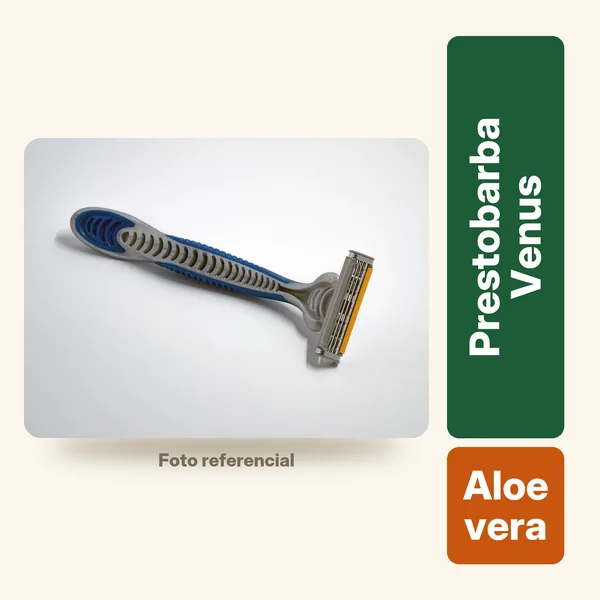
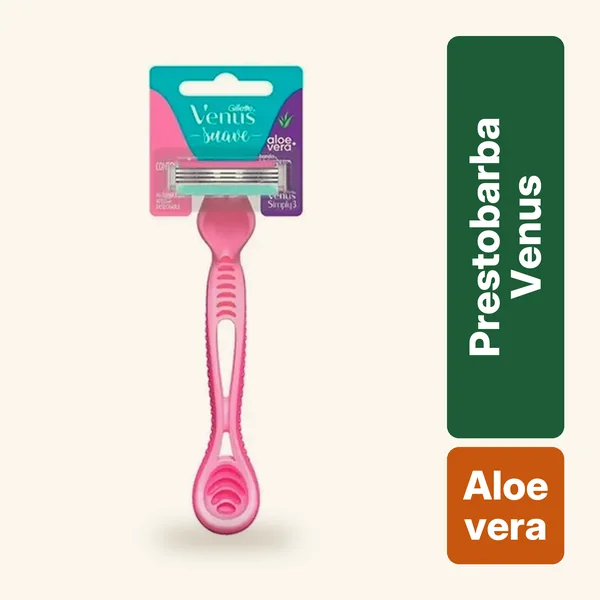
Prestobarba Venus: ASE009 con su código MyPyme LIM009 (carta y script) y foto de la Gillette Venus Suave de mujer

Changed region(s): [[0.03, 0.09, 0.72, 0.93], [0.69, 0.24, 0.72, 0.27], [0.66, 0.21, 0.69, 0.24]]

diff --git a/carta/index.html b/carta/index.html
@@ -2495,8 +2495,8 @@ const visibles=L.productos.filter(p=>!esPieza(p)&&!p.retirado); // retirado: ya 
    el pedido que llega a SabAPP y a la planilla (codMyPyme), la línea MYPYME del WhatsApp, los cerrados por stock y la búsqueda por código.
    "" = no tiene código en MyPyme; si un código no está en la lista, es el mismo (cecinas y congelados, por ejemplo).
    COD_ETIQ: código de la etiqueta del producto. Lo genera mapaCodigos13.py (ver CLAUDE.md). */
-const COD_MYPYME={"BLO011":"PAP005","ABA001":"GRA001","ABA002":"GRA002","ABA003":"GRA003","ABA004":"GRA004","ABA005":"GRA005","ABA006":"GRA006","ABA007":"GRA007","ABA008":"GRA008","ABA009":"GRA009","ABA010":"GRA010","ABA011":"GRA011","ABA012":"","ABA013":"DES001","ABA014":"DES002","ABA015":"DES003","ABA016":"DES004","ABA017":"DES005","ABA018":"GRA012","ABA019":"GRA013","ABA020":"GRA014","ABA021":"GRA015","ABA022":"GRA016","ABA023":"GRA017","ABA024":"GRA018","ABA025":"GRA019","ABA026":"GRA020","ABA027":"GRA021","ABA028":"GRA022","ABA029":"DES006","ABA030":"DES007","ABA031":"GRA023","ABA032":"GRA024","ABA033":"GRA025","ABA034":"GRA026","ABA035":"GRA027","ABA036":"GRA028","ABA037":"GRA029","ABA038":"GRA030","ABA039":"GRA031","ABA040":"GRA032","ABA041":"GRA033","ABA042":"GRA034","ABA043":"GRA035","ABA044":"GRA036","ABA045":"GRA037","ABA046":"GRA038","ABA047":"GRA039","ABA048":"DES008","ABA049":"GRA040","ABA050":"DES009","ABA051":"GRA041","ABA052":"GRA042","ABA053":"GRA043","ABA054":"GRA044","ABA055":"GRA045","ABA056":"GRA046","ABA057":"GRA047","ABA058":"GRA048","ABA059":"GRA049","ABA060":"GRA050","ABA061":"GRA051","ABA062":"GRA052","ABA063":"GRA053","ABA064":"GRA054","ABA065":"GRA055","ABA066":"GRA056","ABA067":"GRA057","ABA068":"GRA058","ABA069":"GRA059","ABA070":"GRA060","ABA071":"GRA061","ABA072":"GRA062","ABA073":"GRA063","ABA074":"GRA064","ABA075":"GRA065","ABA076":"GRA066","ABA077":"GRA067","ABA078":"GRA068","ABA079":"GRA069","ABA080":"GRA070","ABA081":"GRA071","ABA082":"GRA072","ABA083":"GRA073","ABA084":"GRA074","ABA085":"GRA075","ABA086":"GRA076","ABA087":"GRA077","ABA088":"DES010","ABA089":"DES011","ABA090":"DES012","ABA091":"DES013","ABA092":"DES014","ABA093":"DES015","ABA094":"DES016","ABA095":"DES017","ALI-AFRECHILLO":"ALI004","ALI-BICARBONATO":"ALI005","ALI-CONCHUELA":"ALI003","ALI-FINTOX":"ALI007","ALI-FOSFATO-PERUANO":"ALI008","ALI-HARINA-DE-CARNE":"ALI009","ALI-LISINA":"ALI010","ALI-METIONINA":"ALI012","ALI-NUCLEO-POLLITA":"ALI013","ALI-NUCLEO-PONEDORA-NUTRIAL":"","ALI-NUCLEO-PONEDORA-ROVIMIX":"ALI020","ALI-PEPTASAN":"ALI015","ALI-POLIFEED":"ALI016","ALI-SAL":"ALI017","ALI-SOYA":"ALI018","ALI003":"ALI006","ALI004":"ALI011","ANT-BLO013":"","ANT-BOL002":"","ANT-CAR007":"","ANT-CAR012":"","ANT-DES005":"","ANT-DES013":"","ANT-DES036":"","ANT-OTR011":"","ANT-PLA018":"","ANT-PLA027":"","ANT-POT004":"","ANT-POT007":"","ANT-POT017":"","ANT-TAP016":"","ANT-VAS007":"","ANT-VAS022":"","ASE001":"LIM001","ASE002":"LIM002","ASE003":"LIM003","ASE004":"LIM004","ASE005":"LIM005","ASE006":"LIM006","ASE007":"LIM007","ASE008":"LIM008","ASE009":"","ASE010":"LIM009","ASE011":"LIM010","ASE012":"LIM011","ASE013":"LIM012","ASE014":"LIM013","ASE015":"LIM014","ASE016":"LIM015","ASE017":"LIM016","ASE018":"LIM017","ASE019":"LIM018","BLO001":"PAP001","BLO002":"PAP002","BLO003":"PAP003","BLO004":"PAP004","BLO005":"PAP005","BLO006":"PAP006","BLO007":"PAP007","BLO009":"PAP008","BLO010":"PAP009","BOL001":"MER001","BOL002":"PLA001","BOL003":"PLA002","BOL004":"PLA003","BOL005":"PLA004","BOL006":"PLA005","BOL007":"PLA006","BOL008":"PLA007","BOL009":"PAP010","BOL010":"PAP011","BOL011":"PAP012","BOL012":"PLA008","BOL013":"MER002","BOL014":"PLA009","BOL015":"PLA010","BOL016":"PLA011","BOL017":"PLA012","BOL018":"PLA013","BOL019":"PAP013","BOL020":"PAP014","BOL021":"PAP015","BOL022":"PAP016","BOL023":"PAP017","BOL024":"PAP018","BOL025":"MER003","BOL026":"PLA014","BOL027":"PLA015","BOL028":"PLA016","BOL030":"MER004","BOL031":"PAP019","BOL032":"PLA017","BOL033":"PLA018","BOL034":"PAP020","BOL035":"","BOL036":"","BOL037":"","BOL038":"","BOL039":"","BOL040":"","BOL041":"","BOL042":"","BOL043":"PAP021","BOL044":"PAP022","BOL045":"PAP023","BOL046":"","BOL047":"PAP024","BOL048":"PAP025","BOL049":"","BOL050":"PAP026","BOL051":"PAP027","BOL052":"PAP028","BOL053":"PAP029","BOL054":"PAP030","BOL055":"PAP031","BOL056":"PAP032","BOL057":"PLA019","BOL058":"PLA020","BOL059":"PAP033","BOL060":"PAP034","BOL061":"PLA021","BOL062":"PLA022","BOL063":"PLA023","BOL064":"MER010","BOL065":"MER011","BOL066":"MER012","BOL067":"MER013","BOL068":"MER014","BOL069":"MER015","BOL070":"PLA154","BOL071":"PLA155","BOL072":"PLA156","BOL073":"PLA157","BOL074":"PLA158","BOL075":"MER016","BOL076":"MER017","BOL077":"MER018","CAR022":"","CAR023":"CAR021","CAR024":"CAR022","CAR025":"INS005","CAR026":"CAR023","CAR027":"CAR024","CAR028":"CAR025","CAR029":"CAR026","CAR030":"CAR027","CAR032":"CAR028","CAR033":"CAR029","CAR034":"CAR030","CAR035":"CAR031","CAR036":"CAR032","CAR037":"CAR033","CAR038":"CAR034","CAR039":"CAR035","CAR040":"PLA024","CAR041":"CAR036","CAR042":"CAR037","CAR043":"CAR038","CAR044":"CAR039","CAR045":"CAR040","CAR046":"CAR041","CAR047":"CAR042","CAR048":"CAR043","CAR049":"CAR044","CAR051":"CAR045","CAR052":"CAR046","CAR053":"CAR047","CAR054":"CAR048","CAR055":"CAR049","DES001":"PAP035","DES002":"PAP036","DES003":"PAP037","DES004":"PAP038","DES005":"MAD001","DES006":"MAD002","DES007":"MAD003","DES008":"MAD004","DES009":"MAD005","DES010":"LIM019","DES011":"LIM020","DES012":"PLA025","DES014":"MAD006","DES015":"PLA026","DES016":"PLA027","DES017":"PLA028","DES018":"MAD007","DES019":"PLA029","DES020":"PLA030","DES021":"PLA031","DES022":"MAD008","DES023":"PLA032","DES024":"PLA033","DES025":"LIM021","DES026":"LIM022","DES027":"LIM023","DES028":"LIM024","DES029":"LIM025","DES030":"MAD009","DES031":"PLA034","DES032":"MAD010","DES033":"CAR050","DES034":"CAR051","DES036":"CAR052","DES037":"PLA035","DES038":"PLA036","DES039":"PLA037","DES040":"PLA038","DES041":"PLA039","DES042":"MAD011","DES043":"LIM026","DES044":"PLA040","DES045":"MAD012","DES046":"MAD013","DES047":"MAD014","DES048":"PLA041","DES049":"PLA042","DES050":"PLA043","DES051":"MAD015","DES052":"MAD016","DES053":"PLA044","DES054":"LIM027","DES055":"PLA045","HUE001":"INS002","HUE002":"INS004","HUE003":"INS003","HUE004":"HUE001","HUE005":"HUE003","HUE006":"HUE004","HUE007":"HUE006","HUE008":"","HUE009":"HUE007","HUE010":"HUE008","HUE012":"HUE009","HUE013":"HUE010","HUE014":"HUE012","HUE015":"HUE013","HUE016":"HUE014","HUE017":"HUE015","HUE018":"HUE016","HUE019":"HUE017","HUE020":"HUE018","HUE021":"HUE019","HUE024":"","HUE025":"INS001","HUE027":"HUE005","HUE028":"HUE002","HUE029":"HUE020","HUE030":"HUE021","OTR001":"DUL001","OTR003":"MER005","OTR004":"","OTR005":"MER006","OTR006":"LIM028","OTR007":"PLA159","OTR008":"LIM029","OTR009":"LIM030","OTR010":"MER008","OTR011":"MER009","OTR012":"LAC009","OTR013":"LIM031","OTR014":"EQU001","OTR015":"EQU002","OTR016":"EQU003","PLA001":"PLA046","PLA002":"PLA047","PLA003":"PLA048","PLA004":"PLA049","PLA005":"PLA050","PLA006":"PLA051","PLA007":"PLA052","PLA008":"PLA053","PLA009":"PLA054","PLA010":"PLA055","PLA011":"PLA056","PLA012":"CAR063","PLA014":"CAR064","PLA015":"CAR065","PLA016":"CAR066","PLA017":"PLA057","PLA018":"PLA058","PLA019":"PLA059","PLA020":"PLA060","PLA021":"PLA061","PLA022":"PLA062","PLA023":"PLA063","PLA024":"PLA064","PLA025":"PLA065","PLA026":"PLA066","PLA027":"PLA067","PLA028":"PLA068","PLA029":"PLA069","PLA030":"PLA070","PLA031":"PLA071","PLA032":"PLA072","PLA033":"PLA073","PLA034":"PLA074","PLA035":"PLA075","PLA037":"PLA076","PLA038":"PLA077","PLA039":"PLA078","PLA040":"PLA079","PLA041":"PLA080","PLA042":"PLA081","PLA043":"PLA082","PLA044":"PLA083","POT001":"PLA084","POT002":"PLA085","POT003":"CAR067","POT004":"CAR068","POT005":"PLA086","POT006":"PLA087","POT007":"PLA088","POT008":"PLA089","POT009":"PLA090","POT010":"","POT011":"CAR053","POT012":"CAR054","POT013":"PLA091","POT014":"PLA092","POT015":"PLA093","POT016":"PLA094","POT017":"PLA095","POT018":"PLA096","POT019":"PLA097","POT020":"PLA098","POT021":"PLA099","POT022":"PLA100","TAP001":"CAR055","TAP002":"PLA101","TAP003":"PLA102","TAP004":"","TAP005":"ALU024","TAP006":"ALU025","TAP007":"ALU026","TAP008":"CAR056","TAP009":"PLA103","TAP010":"PLA104","TAP011":"PLA105","TAP012":"PLA106","TAP013":"PLA107","TAP014":"PLA108","TAP015":"PLA109","TAP016":"PLA110","TAP017":"PLA111","TAP018":"PLA112","TAP019":"PLA113","TAP020":"INS006","TAP021":"PLA114","TAP022":"PLA115","TAP023":"PLA116","TAP024":"PLA117","TAP025":"ALU027","TAP026":"PLA118","TAP027":"PLA119","TAP028":"PLA120","TAP029":"PLA121","TAP030":"PLA122","TAP031":"PLA123","TAP032":"PLA124","TAP033":"PLA125","TAP034":"PLA126","TAP035":"PLA127","TAP036":"PLA128","TAP037":"PLA129","TAP038":"PLA130","TAP040":"PLA132","TAP041":"PLA133","TAP042":"PLA134","TAP043":"PLA135","VAS001":"PLA138","VAS002":"PLA139","VAS003":"PLA140","VAS004":"PLA141","VAS005":"PLA142","VAS006":"PLA143","VAS007":"MAD018","VAS008":"CAR057","VAS009":"CAR058","VAS010":"PLA144","VAS011":"CAR059","VAS012":"PLA145","VAS013":"PLA146","VAS014":"PLA147","VAS015":"PLA148","VAS016":"PLA149","VAS019":"PLA150","VAS020":"PLA151","VAS021":"PLA152","VAS022":"CAR060","VAS023":"CAR061","VAS024":"CAR062","VAS025":"","VAS026":"PLA153"};
-const COD_ETIQ={"ABA013":"VINA005","ABA014":"NUEVO12","ABA015":"ECOV001","ABA016":"VINA003","ABA017":"VINA004","ABA018":"AJIN001","ABA019":"AJOE001","ABA020":"AJOP001","ABA021":"ALBA001","ABA023":"ALME001","ABA025":"AMAR001","ABA026":"ANIS001","ABA028":"AVEN001","ABA029":"AZUC003","ABA030":"AZUC002","ABA032":"CACA002","ABA033":"CANE002","ABA034":"CARD001","ABA035":"CARN001","ABA036":"CEBO001","ABA037":"CHIA001","ABA039":"CHUC001","ABA040":"CHUN001","ABA042":"CLAV002","ABA043":"CLAV001","ABA044":"COCO001","ABA047":"ESTR001","ABA050":"GELA001","ABA051":"GRAM001","ABA053":"HARI004","ABA054":"HARI003","ABA058":"LINA001","ABA059":"MAIZ001","ABA060":"MAIZ002","ABA062":"MAQU002","ABA063":"MAQU001","ABA064":"MERK001","ABA066":"FRUT001","ABA067":"MOST003","ABA069":"MOST002","ABA071":"NUEC001","ABA072":"NUEZ001","ABA075":"PIMI005","ABA076":"PIMI006","ABA077":"PIMI004","ABA078":"QUIN002","ABA079":"QUIN001","ABA083":"SEMI002","ABA084":"SEMI001","ABA085":"SESA003","ABA086":"SESA002","ABA087":"SESA001","ABA089":"TENE004","ABA092":"TEVE002","ABA093":"TEVE001","ALI001":"ALIM001","ALI002":"ALIM002","ALI003":"ALIM006","ALI004":"ALIM011","ALU001":"ENVA022","ALU002":"ENVA021","ALU004":"ENVA020","ALU005":"ENVA019","ALU006":"ENVA018","ALU008":"ENVA017","ALU009":"NUEVO14","ALU010":"ENVA016","ALU012":"ENVA013","ALU013":"NUEVO13","ALU014":"ENVA010","ALU015":"ENVA007","ALU016":"ENVA012","ALU017":"ENVA011","ALU018":"ENVA009","ALU019":"ENVA008","ALU020":"ENVA014","ALU023":"ALUM001","ASE008":"NUEVO01","ASE010":"PRES001","ASE012":"TRAP002","ASE014":"TRAP001","ASE017":"LIM001","ASE018":"LIM002","ASE019":"LIM003","BLO004":"BLON005","BLO009":"NUEVO54","BOL022":"NUEVO60","BOL023":"NUEVO58","BOL025":"ETIQ001","BOL027":"FILM003","BOL030":"NUEVO45","BOL034":"PAPE003","BOL043":"PAPE002","BOL044":"PAPE006","BOL047":"SACO012","BOL048":"SACO013","BOL050":"SACO008","BOL051":"SACO007","BOL052":"SACO006","BOL053":"SACO005","BOL054":"SACO004","BOL055":"SACO003","BOL056":"SACO002","CAR001":"NUEVO36","CAR002":"BAND018","CAR003":"BAND017","CAR004":"BAND016","CAR005":"NUEVO51","CAR007":"NUEVO50","CAR008":"NUEVO49","CAR017":"BAND007","CAR020":"ENVA001","CAR023":"CAJA032","CAR024":"CAJA033","CAR025":"HUEV020","CAR026":"CAJA028","CAR027":"CAJA026","CAR032":"CAJA013","CAR033":"CAJA006","CAR034":"CAJA012","CAR036":"CAJA003","CAR037":"CAJA001","CAR038":"COMP003","CAR040":"COMP001","CAR041":"CONO001","CAR042":"NUEVO63","CAR043":"SAND001","CAR044":"NUEVO48","CON001":"ATUN001","CON002":"ATUN004","CON003":"CHOR001","CON004":"DURA004","CON005":"DURA001","CON006":"PINA003","CON007":"PINA002","CON008":"SURT001","DES005":"PALO001","DES011":"COFI001","DES018":"CUCH003","DES023":"CUCH001","DES025":"GUAN001","DES030":"MOND001","DES034":"PLAT006","DES036":"PLAT001","DES037":"PLAT004","DES038":"PLAT003","DES039":"PLAT002","DES040":"NUEVO26","DES041":"NUEVO27","DES042":"REVO001","DES043":"SERV001","DES044":"SET3001","DES045":"SETC001","DES050":"TENE003","HUE001":"HUEV017","HUE003":"HUEV018","HUE025":"HUEV016","OTR001":"78023994","OTR003":"HILO003","OTR006":"LIMP001","OTR007":"MARM001","OTR008":"PAST002","OTR009":"PAST001","OTR012":"7802080001204","OTR013":"TOAL002","PLA001":"NUEVO17","PLA002":"CP79001","PLA005":"CLAM002","PLA006":"CLAM001","PLA008":"P1CO001","PLA009":"P1CO002","PLA010":"CT12001","PLA014":"CT5B001","PLA017":"CT20001","PLA018":"CTMA001","PLA019":"CUPU013","PLA020":"CUPU012","PLA022":"CUPU009","PLA024":"CUPU004","PLA025":"CUPU003","PLA026":"CUPU005","PLA027":"CUPU002","PLA029":"CUPU001","PLA030":"CUPU008","PLA031":"CUPU007","PLA032":"CUPU006","PLA033":"ENVA005","PLA034":"NUEVO20","PLA035":"ENVA006","PLA039":"ENVA004","PLA042":"ENVA003","PLA043":"ENVA002","POT001":"POTE011","POT003":"POTE005","POT004":"POTE004","POT005":"POTE008","POT006":"POTE007","POT007":"POTE006","POT008":"POTE003","POT009":"POTE002","POT011":"NUEVO21","POT012":"NUEVO22","POT013":"POTE001","POT014":"POTE010","POT016":"SALS007","POT017":"SALS005","POT018":"SALS006","POT020":"SALS003","TAP001":"TAPA029","TAP002":"TAPA028","TAP003":"TAPA027","TAP005":"NUEVO16","TAP006":"NUEVO15","TAP007":"TAPA026","TAP008":"NUEVO47","TAP009":"NUEVO40","TAP010":"NUEVO41","TAP011":"NUEVO42","TAP012":"NUEVO43","TAP013":"NUEVO37","TAP014":"TAPA025","TAP015":"NUEVO18","TAP016":"TAPA024","TAP017":"TAPA023","TAP018":"TAPA022","TAP019":"TAPA030","TAP020":"HUEV021","TAP021":"TAPA004","TAP023":"TAPA002","TAP024":"TAPA003","TAP025":"TAPA020","TAP026":"TAPA010","TAP027":"TAPA008","TAP028":"TAPA005","TAP029":"TAPA006","TAP030":"TAPA007","TAP031":"TAPA019","TAP032":"TAPA018","TAP033":"TAPA015","TAP034":"TAPA016","TAP035":"TAPA017","TAP036":"TAPA011","TAP037":"TAPA014","TAP040":"TAPA013","TAP042":"TAPA012","TAP043":"TAPA001","VAS001":"COPA001","VAS003":"VASO002","VAS004":"VASO017","VAS005":"NUEVO34","VAS006":"VASO001","VAS007":"VASO018","VAS010":"VASO016","VAS011":"VASO015","VAS012":"VASO012","VAS013":"VASO014","VAS014":"VASO013","VAS015":"VASO011","VAS016":"VASO010","VAS019":"NUEVO38","VAS020":"VASO007","VAS021":"VASO008","VAS022":"VASO006","VAS023":"VASO005","VAS024":"VASO004"};
+const COD_MYPYME={"BLO011":"PAP005","ABA001":"GRA001","ABA002":"GRA002","ABA003":"GRA003","ABA004":"GRA004","ABA005":"GRA005","ABA006":"GRA006","ABA007":"GRA007","ABA008":"GRA008","ABA009":"GRA009","ABA010":"GRA010","ABA011":"GRA011","ABA012":"","ABA013":"DES001","ABA014":"DES002","ABA015":"DES003","ABA016":"DES004","ABA017":"DES005","ABA018":"GRA012","ABA019":"GRA013","ABA020":"GRA014","ABA021":"GRA015","ABA022":"GRA016","ABA023":"GRA017","ABA024":"GRA018","ABA025":"GRA019","ABA026":"GRA020","ABA027":"GRA021","ABA028":"GRA022","ABA029":"DES006","ABA030":"DES007","ABA031":"GRA023","ABA032":"GRA024","ABA033":"GRA025","ABA034":"GRA026","ABA035":"GRA027","ABA036":"GRA028","ABA037":"GRA029","ABA038":"GRA030","ABA039":"GRA031","ABA040":"GRA032","ABA041":"GRA033","ABA042":"GRA034","ABA043":"GRA035","ABA044":"GRA036","ABA045":"GRA037","ABA046":"GRA038","ABA047":"GRA039","ABA048":"DES008","ABA049":"GRA040","ABA050":"DES009","ABA051":"GRA041","ABA052":"GRA042","ABA053":"GRA043","ABA054":"GRA044","ABA055":"GRA045","ABA056":"GRA046","ABA057":"GRA047","ABA058":"GRA048","ABA059":"GRA049","ABA060":"GRA050","ABA061":"GRA051","ABA062":"GRA052","ABA063":"GRA053","ABA064":"GRA054","ABA065":"GRA055","ABA066":"GRA056","ABA067":"GRA057","ABA068":"GRA058","ABA069":"GRA059","ABA070":"GRA060","ABA071":"GRA061","ABA072":"GRA062","ABA073":"GRA063","ABA074":"GRA064","ABA075":"GRA065","ABA076":"GRA066","ABA077":"GRA067","ABA078":"GRA068","ABA079":"GRA069","ABA080":"GRA070","ABA081":"GRA071","ABA082":"GRA072","ABA083":"GRA073","ABA084":"GRA074","ABA085":"GRA075","ABA086":"GRA076","ABA087":"GRA077","ABA088":"DES010","ABA089":"DES011","ABA090":"DES012","ABA091":"DES013","ABA092":"DES014","ABA093":"DES015","ABA094":"DES016","ABA095":"DES017","ALI-AFRECHILLO":"ALI004","ALI-BICARBONATO":"ALI005","ALI-CONCHUELA":"ALI003","ALI-FINTOX":"ALI007","ALI-FOSFATO-PERUANO":"ALI008","ALI-HARINA-DE-CARNE":"ALI009","ALI-LISINA":"ALI010","ALI-METIONINA":"ALI012","ALI-NUCLEO-POLLITA":"ALI013","ALI-NUCLEO-PONEDORA-NUTRIAL":"","ALI-NUCLEO-PONEDORA-ROVIMIX":"ALI020","ALI-PEPTASAN":"ALI015","ALI-POLIFEED":"ALI016","ALI-SAL":"ALI017","ALI-SOYA":"ALI018","ALI003":"ALI006","ALI004":"ALI011","ANT-BLO013":"","ANT-BOL002":"","ANT-CAR007":"","ANT-CAR012":"","ANT-DES005":"","ANT-DES013":"","ANT-DES036":"","ANT-OTR011":"","ANT-PLA018":"","ANT-PLA027":"","ANT-POT004":"","ANT-POT007":"","ANT-POT017":"","ANT-TAP016":"","ANT-VAS007":"","ANT-VAS022":"","ASE001":"LIM001","ASE002":"LIM002","ASE003":"LIM003","ASE004":"LIM004","ASE005":"LIM005","ASE006":"LIM006","ASE007":"LIM007","ASE008":"LIM008","ASE009":"LIM009","ASE010":"LIM009","ASE011":"LIM010","ASE012":"LIM011","ASE013":"LIM012","ASE014":"LIM013","ASE015":"LIM014","ASE016":"LIM015","ASE017":"LIM016","ASE018":"LIM017","ASE019":"LIM018","BLO001":"PAP001","BLO002":"PAP002","BLO003":"PAP003","BLO004":"PAP004","BLO005":"PAP005","BLO006":"PAP006","BLO007":"PAP007","BLO009":"PAP008","BLO010":"PAP009","BOL001":"MER001","BOL002":"PLA001","BOL003":"PLA002","BOL004":"PLA003","BOL005":"PLA004","BOL006":"PLA005","BOL007":"PLA006","BOL008":"PLA007","BOL009":"PAP010","BOL010":"PAP011","BOL011":"PAP012","BOL012":"PLA008","BOL013":"MER002","BOL014":"PLA009","BOL015":"PLA010","BOL016":"PLA011","BOL017":"PLA012","BOL018":"PLA013","BOL019":"PAP013","BOL020":"PAP014","BOL021":"PAP015","BOL022":"PAP016","BOL023":"PAP017","BOL024":"PAP018","BOL025":"MER003","BOL026":"PLA014","BOL027":"PLA015","BOL028":"PLA016","BOL030":"MER004","BOL031":"PAP019","BOL032":"PLA017","BOL033":"PLA018","BOL034":"PAP020","BOL035":"","BOL036":"","BOL037":"","BOL038":"","BOL039":"","BOL040":"","BOL041":"","BOL042":"","BOL043":"PAP021","BOL044":"PAP022","BOL045":"PAP023","BOL046":"","BOL047":"PAP024","BOL048":"PAP025","BOL049":"","BOL050":"PAP026","BOL051":"PAP027","BOL052":"PAP028","BOL053":"PAP029","BOL054":"PAP030","BOL055":"PAP031","BOL056":"PAP032","BOL057":"PLA019","BOL058":"PLA020","BOL059":"PAP033","BOL060":"PAP034","BOL061":"PLA021","BOL062":"PLA022","BOL063":"PLA023","BOL064":"MER010","BOL065":"MER011","BOL066":"MER012","BOL067":"MER013","BOL068":"MER014","BOL069":"MER015","BOL070":"PLA154","BOL071":"PLA155","BOL072":"PLA156","BOL073":"PLA157","BOL074":"PLA158","BOL075":"MER016","BOL076":"MER017","BOL077":"MER018","CAR022":"","CAR023":"CAR021","CAR024":"CAR022","CAR025":"INS005","CAR026":"CAR023","CAR027":"CAR024","CAR028":"CAR025","CAR029":"CAR026","CAR030":"CAR027","CAR032":"CAR028","CAR033":"CAR029","CAR034":"CAR030","CAR035":"CAR031","CAR036":"CAR032","CAR037":"CAR033","CAR038":"CAR034","CAR039":"CAR035","CAR040":"PLA024","CAR041":"CAR036","CAR042":"CAR037","CAR043":"CAR038","CAR044":"CAR039","CAR045":"CAR040","CAR046":"CAR041","CAR047":"CAR042","CAR048":"CAR043","CAR049":"CAR044","CAR051":"CAR045","CAR052":"CAR046","CAR053":"CAR047","CAR054":"CAR048","CAR055":"CAR049","DES001":"PAP035","DES002":"PAP036","DES003":"PAP037","DES004":"PAP038","DES005":"MAD001","DES006":"MAD002","DES007":"MAD003","DES008":"MAD004","DES009":"MAD005","DES010":"LIM019","DES011":"LIM020","DES012":"PLA025","DES014":"MAD006","DES015":"PLA026","DES016":"PLA027","DES017":"PLA028","DES018":"MAD007","DES019":"PLA029","DES020":"PLA030","DES021":"PLA031","DES022":"MAD008","DES023":"PLA032","DES024":"PLA033","DES025":"LIM021","DES026":"LIM022","DES027":"LIM023","DES028":"LIM024","DES029":"LIM025","DES030":"MAD009","DES031":"PLA034","DES032":"MAD010","DES033":"CAR050","DES034":"CAR051","DES036":"CAR052","DES037":"PLA035","DES038":"PLA036","DES039":"PLA037","DES040":"PLA038","DES041":"PLA039","DES042":"MAD011","DES043":"LIM026","DES044":"PLA040","DES045":"MAD012","DES046":"MAD013","DES047":"MAD014","DES048":"PLA041","DES049":"PLA042","DES050":"PLA043","DES051":"MAD015","DES052":"MAD016","DES053":"PLA044","DES054":"LIM027","DES055":"PLA045","HUE001":"INS002","HUE002":"INS004","HUE003":"INS003","HUE004":"HUE001","HUE005":"HUE003","HUE006":"HUE004","HUE007":"HUE006","HUE008":"","HUE009":"HUE007","HUE010":"HUE008","HUE012":"HUE009","HUE013":"HUE010","HUE014":"HUE012","HUE015":"HUE013","HUE016":"HUE014","HUE017":"HUE015","HUE018":"HUE016","HUE019":"HUE017","HUE020":"HUE018","HUE021":"HUE019","HUE024":"","HUE025":"INS001","HUE027":"HUE005","HUE028":"HUE002","HUE029":"HUE020","HUE030":"HUE021","OTR001":"DUL001","OTR003":"MER005","OTR004":"","OTR005":"MER006","OTR006":"LIM028","OTR007":"PLA159","OTR008":"LIM029","OTR009":"LIM030","OTR010":"MER008","OTR011":"MER009","OTR012":"LAC009","OTR013":"LIM031","OTR014":"EQU001","OTR015":"EQU002","OTR016":"EQU003","PLA001":"PLA046","PLA002":"PLA047","PLA003":"PLA048","PLA004":"PLA049","PLA005":"PLA050","PLA006":"PLA051","PLA007":"PLA052","PLA008":"PLA053","PLA009":"PLA054","PLA010":"PLA055","PLA011":"PLA056","PLA012":"CAR063","PLA014":"CAR064","PLA015":"CAR065","PLA016":"CAR066","PLA017":"PLA057","PLA018":"PLA058","PLA019":"PLA059","PLA020":"PLA060","PLA021":"PLA061","PLA022":"PLA062","PLA023":"PLA063","PLA024":"PLA064","PLA025":"PLA065","PLA026":"PLA066","PLA027":"PLA067","PLA028":"PLA068","PLA029":"PLA069","PLA030":"PLA070","PLA031":"PLA071","PLA032":"PLA072","PLA033":"PLA073","PLA034":"PLA074","PLA035":"PLA075","PLA037":"PLA076","PLA038":"PLA077","PLA039":"PLA078","PLA040":"PLA079","PLA041":"PLA080","PLA042":"PLA081","PLA043":"PLA082","PLA044":"PLA083","POT001":"PLA084","POT002":"PLA085","POT003":"CAR067","POT004":"CAR068","POT005":"PLA086","POT006":"PLA087","POT007":"PLA088","POT008":"PLA089","POT009":"PLA090","POT010":"","POT011":"CAR053","POT012":"CAR054","POT013":"PLA091","POT014":"PLA092","POT015":"PLA093","POT016":"PLA094","POT017":"PLA095","POT018":"PLA096","POT019":"PLA097","POT020":"PLA098","POT021":"PLA099","POT022":"PLA100","TAP001":"CAR055","TAP002":"PLA101","TAP003":"PLA102","TAP004":"","TAP005":"ALU024","TAP006":"ALU025","TAP007":"ALU026","TAP008":"CAR056","TAP009":"PLA103","TAP010":"PLA104","TAP011":"PLA105","TAP012":"PLA106","TAP013":"PLA107","TAP014":"PLA108","TAP015":"PLA109","TAP016":"PLA110","TAP017":"PLA111","TAP018":"PLA112","TAP019":"PLA113","TAP020":"INS006","TAP021":"PLA114","TAP022":"PLA115","TAP023":"PLA116","TAP024":"PLA117","TAP025":"ALU027","TAP026":"PLA118","TAP027":"PLA119","TAP028":"PLA120","TAP029":"PLA121","TAP030":"PLA122","TAP031":"PLA123","TAP032":"PLA124","TAP033":"PLA125","TAP034":"PLA126","TAP035":"PLA127","TAP036":"PLA128","TAP037":"PLA129","TAP038":"PLA130","TAP040":"PLA132","TAP041":"PLA133","TAP042":"PLA134","TAP043":"PLA135","VAS001":"PLA138","VAS002":"PLA139","VAS003":"PLA140","VAS004":"PLA141","VAS005":"PLA142","VAS006":"PLA143","VAS007":"MAD018","VAS008":"CAR057","VAS009":"CAR058","VAS010":"PLA144","VAS011":"CAR059","VAS012":"PLA145","VAS013":"PLA146","VAS014":"PLA147","VAS015":"PLA148","VAS016":"PLA149","VAS019":"PLA150","VAS020":"PLA151","VAS021":"PLA152","VAS022":"CAR060","VAS023":"CAR061","VAS024":"CAR062","VAS025":"","VAS026":"PLA153"};
+const COD_ETIQ={"ABA013":"VINA005","ABA014":"NUEVO12","ABA015":"ECOV001","ABA016":"VINA003","ABA017":"VINA004","ABA018":"AJIN001","ABA019":"AJOE001","ABA020":"AJOP001","ABA021":"ALBA001","ABA023":"ALME001","ABA025":"AMAR001","ABA026":"ANIS001","ABA028":"AVEN001","ABA029":"AZUC003","ABA030":"AZUC002","ABA032":"CACA002","ABA033":"CANE002","ABA034":"CARD001","ABA035":"CARN001","ABA036":"CEBO001","ABA037":"CHIA001","ABA039":"CHUC001","ABA040":"CHUN001","ABA042":"CLAV002","ABA043":"CLAV001","ABA044":"COCO001","ABA047":"ESTR001","ABA050":"GELA001","ABA051":"GRAM001","ABA053":"HARI004","ABA054":"HARI003","ABA058":"LINA001","ABA059":"MAIZ001","ABA060":"MAIZ002","ABA062":"MAQU002","ABA063":"MAQU001","ABA064":"MERK001","ABA066":"FRUT001","ABA067":"MOST003","ABA069":"MOST002","ABA071":"NUEC001","ABA072":"NUEZ001","ABA075":"PIMI005","ABA076":"PIMI006","ABA077":"PIMI004","ABA078":"QUIN002","ABA079":"QUIN001","ABA083":"SEMI002","ABA084":"SEMI001","ABA085":"SESA003","ABA086":"SESA002","ABA087":"SESA001","ABA089":"TENE004","ABA092":"TEVE002","ABA093":"TEVE001","ALI001":"ALIM001","ALI002":"ALIM002","ALI003":"ALIM006","ALI004":"ALIM011","ALU001":"ENVA022","ALU002":"ENVA021","ALU004":"ENVA020","ALU005":"ENVA019","ALU006":"ENVA018","ALU008":"ENVA017","ALU009":"NUEVO14","ALU010":"ENVA016","ALU012":"ENVA013","ALU013":"NUEVO13","ALU014":"ENVA010","ALU015":"ENVA007","ALU016":"ENVA012","ALU017":"ENVA011","ALU018":"ENVA009","ALU019":"ENVA008","ALU020":"ENVA014","ALU023":"ALUM001","ASE008":"NUEVO01","ASE009":"PRES001","ASE010":"PRES001","ASE012":"TRAP002","ASE014":"TRAP001","ASE017":"LIM001","ASE018":"LIM002","ASE019":"LIM003","BLO004":"BLON005","BLO009":"NUEVO54","BOL022":"NUEVO60","BOL023":"NUEVO58","BOL025":"ETIQ001","BOL027":"FILM003","BOL030":"NUEVO45","BOL034":"PAPE003","BOL043":"PAPE002","BOL044":"PAPE006","BOL047":"SACO012","BOL048":"SACO013","BOL050":"SACO008","BOL051":"SACO007","BOL052":"SACO006","BOL053":"SACO005","BOL054":"SACO004","BOL055":"SACO003","BOL056":"SACO002","CAR001":"NUEVO36","CAR002":"BAND018","CAR003":"BAND017","CAR004":"BAND016","CAR005":"NUEVO51","CAR007":"NUEVO50","CAR008":"NUEVO49","CAR017":"BAND007","CAR020":"ENVA001","CAR023":"CAJA032","CAR024":"CAJA033","CAR025":"HUEV020","CAR026":"CAJA028","CAR027":"CAJA026","CAR032":"CAJA013","CAR033":"CAJA006","CAR034":"CAJA012","CAR036":"CAJA003","CAR037":"CAJA001","CAR038":"COMP003","CAR040":"COMP001","CAR041":"CONO001","CAR042":"NUEVO63","CAR043":"SAND001","CAR044":"NUEVO48","CON001":"ATUN001","CON002":"ATUN004","CON003":"CHOR001","CON004":"DURA004","CON005":"DURA001","CON006":"PINA003","CON007":"PINA002","CON008":"SURT001","DES005":"PALO001","DES011":"COFI001","DES018":"CUCH003","DES023":"CUCH001","DES025":"GUAN001","DES030":"MOND001","DES034":"PLAT006","DES036":"PLAT001","DES037":"PLAT004","DES038":"PLAT003","DES039":"PLAT002","DES040":"NUEVO26","DES041":"NUEVO27","DES042":"REVO001","DES043":"SERV001","DES044":"SET3001","DES045":"SETC001","DES050":"TENE003","HUE001":"HUEV017","HUE003":"HUEV018","HUE025":"HUEV016","OTR001":"78023994","OTR003":"HILO003","OTR006":"LIMP001","OTR007":"MARM001","OTR008":"PAST002","OTR009":"PAST001","OTR012":"7802080001204","OTR013":"TOAL002","PLA001":"NUEVO17","PLA002":"CP79001","PLA005":"CLAM002","PLA006":"CLAM001","PLA008":"P1CO001","PLA009":"P1CO002","PLA010":"CT12001","PLA014":"CT5B001","PLA017":"CT20001","PLA018":"CTMA001","PLA019":"CUPU013","PLA020":"CUPU012","PLA022":"CUPU009","PLA024":"CUPU004","PLA025":"CUPU003","PLA026":"CUPU005","PLA027":"CUPU002","PLA029":"CUPU001","PLA030":"CUPU008","PLA031":"CUPU007","PLA032":"CUPU006","PLA033":"ENVA005","PLA034":"NUEVO20","PLA035":"ENVA006","PLA039":"ENVA004","PLA042":"ENVA003","PLA043":"ENVA002","POT001":"POTE011","POT003":"POTE005","POT004":"POTE004","POT005":"POTE008","POT006":"POTE007","POT007":"POTE006","POT008":"POTE003","POT009":"POTE002","POT011":"NUEVO21","POT012":"NUEVO22","POT013":"POTE001","POT014":"POTE010","POT016":"SALS007","POT017":"SALS005","POT018":"SALS006","POT020":"SALS003","TAP001":"TAPA029","TAP002":"TAPA028","TAP003":"TAPA027","TAP005":"NUEVO16","TAP006":"NUEVO15","TAP007":"TAPA026","TAP008":"NUEVO47","TAP009":"NUEVO40","TAP010":"NUEVO41","TAP011":"NUEVO42","TAP012":"NUEVO43","TAP013":"NUEVO37","TAP014":"TAPA025","TAP015":"NUEVO18","TAP016":"TAPA024","TAP017":"TAPA023","TAP018":"TAPA022","TAP019":"TAPA030","TAP020":"HUEV021","TAP021":"TAPA004","TAP023":"TAPA002","TAP024":"TAPA003","TAP025":"TAPA020","TAP026":"TAPA010","TAP027":"TAPA008","TAP028":"TAPA005","TAP029":"TAPA006","TAP030":"TAPA007","TAP031":"TAPA019","TAP032":"TAPA018","TAP033":"TAPA015","TAP034":"TAPA016","TAP035":"TAPA017","TAP036":"TAPA011","TAP037":"TAPA014","TAP040":"TAPA013","TAP042":"TAPA012","TAP043":"TAPA001","VAS001":"COPA001","VAS003":"VASO002","VAS004":"VASO017","VAS005":"NUEVO34","VAS006":"VASO001","VAS007":"VASO018","VAS010":"VASO016","VAS011":"VASO015","VAS012":"VASO012","VAS013":"VASO014","VAS014":"VASO013","VAS015":"VASO011","VAS016":"VASO010","VAS019":"NUEVO38","VAS020":"VASO007","VAS021":"VASO008","VAS022":"VASO006","VAS023":"VASO005","VAS024":"VASO004"};
 const codMyPyme=c=>Object.prototype.hasOwnProperty.call(COD_MYPYME,c)?COD_MYPYME[c]:c;
 /* Búsqueda por código (David, 21/11 y 23/11/2026: «estos códigos deben estar disponibles para buscar en el catálogo»): por el código de MyPyme
    o el de la etiqueta; el código interno del catálogo solo si ninguno calza */

diff --git a/legal.html b/legal.html
@@ -337,7 +337,7 @@ footer p{margin:0 0 6px}
       <li><b>Logos de Nutringen y Certilab:</b> son marcas de sus dueños y se muestran solo para indicar quién nos provee las vacunas (Nutringen) y quién analiza nuestros huevos (Certilab).</li>
       <li><b>Fotos de pollitas de la página web:</b> son imágenes referenciales, creadas para este sitio con inteligencia artificial (Higgsfield).</li>
       <li><b>Fotos de la mezcla del alimento (materias primas, mezcladora y saco):</b> son imágenes referenciales, creadas para este sitio con inteligencia artificial (Higgsfield).</li>
-      <li><b>Fotos de productos de la carta:</b> la mayoría son propias, tomadas en el Emporio. Algunas vienen de bancos de imágenes de uso libre (Pixabay). Las de bebidas (agua Vital, Coca-Cola, Fanta, Sprite, Andina del Valle y Monster) son las imágenes de producto que publica su embotellador, Coca-Cola Andina, en miCoca-Cola.cl, sin la franja de la tienda y sobre nuestro fondo. Las del queso chanco Río Cruces (pieza y barra) son las fotos de producto de Lácteos Río Cruces, de Valdivia, en lacteosriocruces.cl, sobre nuestro fondo. Las fotos de las familias de envases desechables (aluminio, bandejas, cajas, bolsas, vasos, potes, platos, brochetas, guantes y otros; dicen «Foto referencial») y la del completero de cartón son imágenes de producto del catálogo general de nuestro proveedor Vanni (diciembre de 2025), sobre nuestro fondo y con nuestras etiquetas. Se usan solo para mostrar el producto que vendemos; las marcas y las imágenes son de sus dueños.</li>
+      <li><b>Fotos de productos de la carta:</b> la mayoría son propias, tomadas en el Emporio. Algunas vienen de bancos de imágenes de uso libre (Pixabay). Las de bebidas (agua Vital, Coca-Cola, Fanta, Sprite, Andina del Valle y Monster) son las imágenes de producto que publica su embotellador, Coca-Cola Andina, en miCoca-Cola.cl, sin la franja de la tienda y sobre nuestro fondo. Las del queso chanco Río Cruces (pieza y barra) son las fotos de producto de Lácteos Río Cruces, de Valdivia, en lacteosriocruces.cl, sobre nuestro fondo. La de la prestobarba Gillette Venus Suave (aloe vera) es la imagen de producto publicada en MercadoLibre, sobre nuestro fondo. Las fotos de las familias de envases desechables (aluminio, bandejas, cajas, bolsas, vasos, potes, platos, brochetas, guantes y otros; dicen «Foto referencial») y la del completero de cartón son imágenes de producto del catálogo general de nuestro proveedor Vanni (diciembre de 2025), sobre nuestro fondo y con nuestras etiquetas. Se usan solo para mostrar el producto que vendemos; las marcas y las imágenes son de sus dueños.</li>
       <li><b>Fotos referenciales de productos a granel:</b> la de carne de soya es una foto de Pixabay (n.º 5005944, licencia de Pixabay). Las del charqui equino entero y molido se hicieron con la foto «Charqui.jpg», de Gab, publicada en Wikimedia Commons bajo licencia CC BY-SA 4.0 (<a href="https://commons.wikimedia.org/wiki/File:Charqui.jpg">ver original</a>); esas dos fichas se comparten con la misma licencia CC BY-SA 4.0. La de la almendra a granel (bolsa de 1 kg) se hizo con la foto «Almonds», de HealthAliciousNess, publicada en Flickr bajo licencia CC BY 2.0 (<a href="https://www.flickr.com/photos/60879087@N02/5605239684">ver original</a>), recortada en un recuadro sobre nuestro fondo. La del té azul se hizo con la foto «Sukhothai, Thailand», de Ninara31 (<a href="https://www.flickr.com/photos/150102727@N06/49911698503">ver original</a>), y la del té verde con «Fresh Japanese Green Tea Leaves with Scoop», de Goat Tree Designs (<a href="https://www.flickr.com/photos/188326905@N04/49890023542">ver original</a>); ambas están publicadas en Flickr bajo licencia CC BY 2.0 y se recortaron en un recuadro. Muestran el tipo de producto; el que vendemos puede variar en color y corte.</li>
       <li><b>Fotos referenciales de quesos</b> (las fichas dicen «Foto referencial»; no son los productos de esas marcas): la del queso gauda se hizo con la foto «Gouda Cheese», de eelke dekker (<a href="https://www.flickr.com/photos/93472036@N00/5447913516">ver original</a>), y la del quesillo con «Queso fresco», de chispita_666 (<a href="https://www.flickr.com/photos/12477719@N00/4294903932">ver original</a>); ambas están publicadas en Flickr bajo licencia CC BY 2.0 y se recortaron en un recuadro. Las del queso chanco Don Isidro y la del despunte usan una foto de dominio público (CC0) de rawpixel (<a href="https://www.rawpixel.com/image/5925070/photo-image-public-domain-food-milk">ver original</a>), y las del queso laminado Don Isidro, otra foto de dominio público (CC0) de rawpixel, de queso en láminas (<a href="https://www.rawpixel.com/image/5958537/free-public-domain-cc0-photo">ver original</a>).</li>
       <li><b>Foto referencial de las cucharas para helado de colores</b>: se hizo con la foto «Ice Cream Spoons», de zeevveez (<a href="https://www.flickr.com/photos/29001414@N00/39576735695">ver original</a>), publicada en Flickr bajo licencia CC BY 2.0; se recortó en un recuadro con la leyenda «Foto referencial».</li>

diff --git a/CLAUDE.md b/CLAUDE.md
@@ -396,5 +396,6 @@ Pedido de David: «el stock que hay en bodega según la planilla actualizada que
 - **Revisión de los productos por paquete web vs MyPyme (24/11/2026, David: «haz la revisión»):** 146 productos de la carta que se venden por paquete comparados con su ficha en MyPyme (conversión «Paquete = N» y precios de la lista Emporio): 45 calzan, 101 no; detalle en `Desktop/Revisión paquetes web y MyPyme 2026-11-24.xlsx` (hoja «Revisión» por grupos, hoja «Calzan»; datos en `revision/datos.json` del scratchpad). Decisiones de David: (1) «la unidad (con 5 % de recargo) es solo para los sacos kraft»; (2) guantes: la venta es por caja de 100 y 10 cajas van como paquete con 5 % menos (falta armarlo); (3) cubiertos, brochetas, mondadientes, palitos, servilleta Vanni, traperos Virginia, plato N° 1 y cuchara de colores (21): «solo se vende por paquete» → en la web `detalle:"Precio por paquete de N u"` con el precio del paquete que ya mostraba y sin `upp`/`pq`/`tramos`; en MyPyme la servilleta LIM026 paquete $1 → $760 y a PLA038 y PLA025 se les agregó «Paquete = 20/100» con su precio; (6) bebidas: «le colocas el precio de la página web» → 11 con su paquete en la lista Emporio y la unidad de la web (agua Vital y néctar quedaron para confirmar: web $410/$720/$370 vs MyPyme $700/$1.250/$1.100). Daniela Cisterna puso la Coca-Cola 1,5 l en $2.250 a las 14:24 y se respetó (web $2.240). ALU018 aparece en MyPyme con paquete y unidad a $4.500 (alguien lo cambió después del 23/11).
 - **Más decisiones de la revisión de paquetes (24/11/2026):** (1) David: «unidad sin recargo» → en el grupo 1 y las etiquetas (34 productos) la unidad de la web = paquete ÷ N, como en MyPyme, y el paquete queda fijo con `pq` (etiquetas $25 → $6, vasos 300 cc $38 → $36, bolsas camiseta, salseros con tapa incluida, moldes de pan de pascua, bombillas, ALU007…). NO se tocaron 9 que llevan tapa que se cobra (vasos 300/500 cc y domo 16 oz, salseros 1 y 3,25 oz «solo», pote transparente 24 oz, pote helado 16 oz): su unidad web incluye la tapa y en MyPyme el vaso solo cuesta paquete ÷ N; queda por decidir. Tampoco CAR010/CAR011 (bandejas rectangulares N° 13/14, web $320/$350 vs $217/$228) ni CAR041 (cono, $60 vs $55). (2) Guantes («se venden por caja de 100; 10 cajas como paquete con 5 % menos»): DES025–DES029 y DES054 pasan a `nombre:"… · caja de 100"` (polietileno «· paquete de 100»), unidad = caja ($2.850 nitrilo, $3.100 vinilo, $2.190 polietileno), `upp:10`, `pq` = 10 cajas −5 % ($27.080, $29.450, $20.810), `modoIni:"U"` (la caja viene elegida; `modoDe` acepta ahora `modoIni` en productos con paquete) y stock en cajas; las familias de guantes con `desdeUnidad:"la caja"` («Desde $2.850 la caja») y `med:"Caja de 100 guantes"`. En MyPyme (LIM021–LIM025, LIM027): «Paquete = 100» es la caja (ya tenía su precio), se agregó «Caja XL = 1000» (10 cajas) con su precio y la unidad (1 guante) quedó en caja ÷ 100. (6b) Agua Vital 600 cc/1,6 l y néctar durazno: «el de la web» → en MyPyme unidad $410/$720/$370 y paquete $4.670/$4.100/$2.110. (Blonda) PAP005 «se vende sola y gratis con la bandeja»: nuevo producto BLO011 «Blonda redonda de torta N° 5» en Moldes, $150, stock 197 (planilla ERP 13), `COD_MYPYME["BLO011"]="PAP005"` agregado a mano; BLO005 sigue como pieza gratis de la bandeja N° 5 (CAR012). En MyPyme PAP005 Emporio $150.
 - **Precios por chat (24/11/2026, David: «MER002 deja el precio a 790; PLA060 990 y por 10 unid 790; PLA061 la vendemos a 1390 y por 10 uni 990»):** BOL013 (= MER002) bolsa reutilizable con diseño sin precio → $790; PLA020 (= PLA060) cúpula kuchen chico 909-3 $700 → $990 y `tramos:[[10,790]]`; PLA021 (= PLA061) cúpula kuchen grande 1025-3 $1.645 → $1.390 y `tramos:[[10,990]]` («por 10 unidades X» = X c/u desde 10 u, como la huincha). MyPyme lista Emporio: MER002 $1 → $790; a PLA060 y PLA061 (unidad ya en $990/$1.390) se les agregó «Paquete = 10» a $7.900 y $9.900. Planilla 13 W y nota (el script de la planilla ahora crea la celda P si falta: `te/precios13k.py`).
+- **Prestobarba Venus (24/11/2026, David: «LIM009 es el código real de ASE009, cámbialo en todos lados; la prestobarba Venus es de mujer, búscala en internet y le cambias la imagen»):** en MyPyme hay UN artículo, LIM009 «Prestobarba Venus suave aloe vera» ($780 Emporio; ASE009 y ASE010 abren esa misma ficha como códigos antiguos). En la carta había dos: ASE009 «Prestobarba simpli venus» (sin código) y ASE010 «… aloe vera Gillette» (LIM009). Ahora `COD_MYPYME["ASE009"]="LIM009"` (carta y `CODIGOS_MYPYME` del .gs, que hay que instalar) y `COD_ETIQ["ASE009"]="PRES001"`; nota en la planilla 13 (fila de LIM009). Fotos ASE009/ASE010: la Gillette Venus Suave aloe vera (rosada, de mujer) de MercadoLibre (`D_NQ_NP_641773-MLM73646257133`), con `fotoWeb.py` (`hasta: 1.0`) y las etiquetas de siempre; crédito en legal.html. Ojo: siguen siendo dos tarjetas para el mismo producto de MyPyme (falta que David diga si se saca una) y la carta las tiene a $774 (MyPyme $780).
 - **MyPyme completo (23/11/2026):** el informe de artículos con «Local» = Emporio Sabroso trae 511; con «Todos», 646 (Distribuidora y Supermercado Santa Bárbara comparten los códigos). Ojo: LAC010 ya es en MyPyme «Queso laminado Frutillar gauda 500gr» (otro local), y la planilla 13 lo usa para la mantequilla panificadora 250 g; INS007 bandeja recolectora no está en la carta.
 - Para instalar (con el sí de David): 1) pegar el .gs y el Panel.html nuevos en el proyecto de Apps Script de la planilla EM27-0802 (no se agregan servicios de Google); 2) versión nueva en las TRES implementaciones (catálogo AKfycbzP…, SabAPP vendedores AKfycbxONg…, SabAPP correo y clave AKfycbzezl…); 3) publicar la carta y sabapp/ (`node herramientas/sabapp/construir.js` ya corrido). El orden no rompe nada: con el script viejo la carta nueva solo manda un campo de más y la SabAPP web no muestra «Editar pedido».
